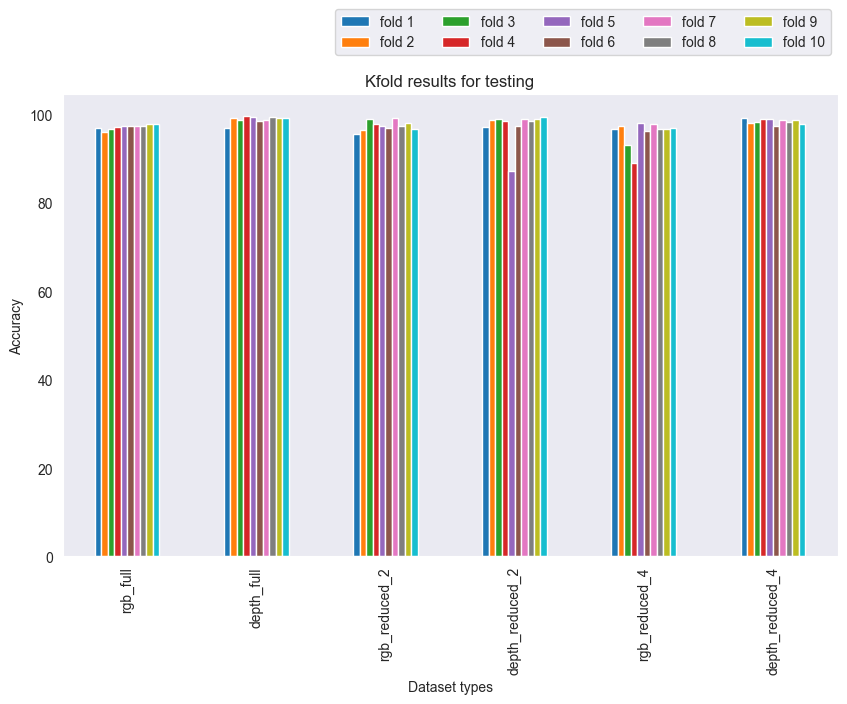
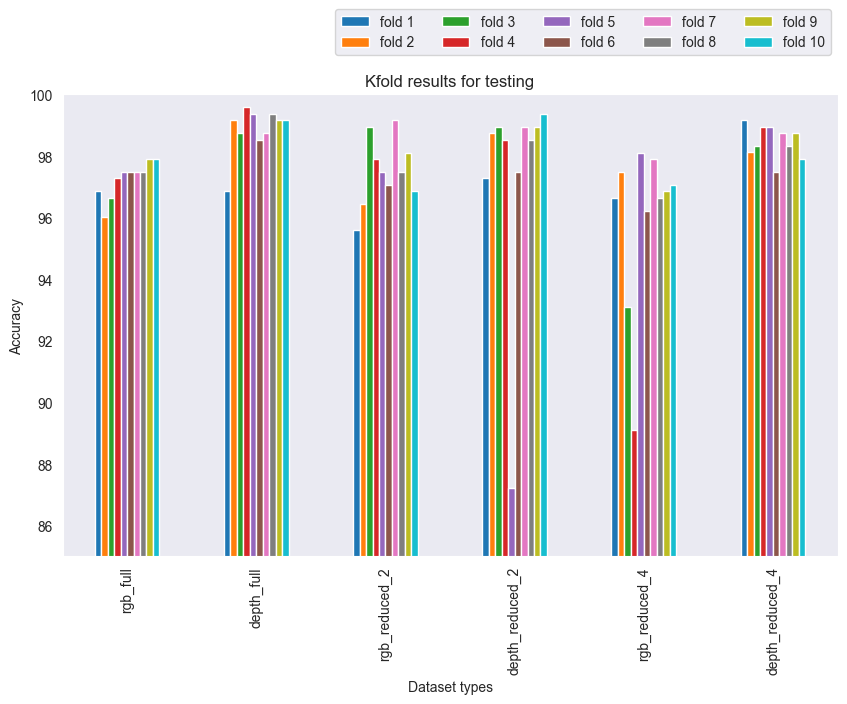
added training results save and acc/loss graphs generation

diff --git a/ML/ml.py b/ML/ml.py
@@ -19,6 +19,7 @@ from sklearn.metrics import classification_report
 import seaborn as sns
 import pandas as pd
 from tensorflow.keras.utils import plot_model
+import pickle
 
 os.environ["TF_CPP_MIN_LOG_LEVEL"] = "2"
 
@@ -621,7 +622,8 @@ def video_ml(root, name, dataset_type=Dataset_type.Normal, input_shape=(0, 0, 0,
             plt.title('Training and Validation Loss')
             plt.savefig(f'output/{name}_loss_results.png')
             plt.clf()
-            np.save(f'output/{name}_training_history.npy', history.history)
+            with open(f'output/{name}_training_history', 'wb') as file_pi:
+                pickle.dump(history.history, file_pi)
             model_vid.save(f'output/{name}_weights.h5')
         else:
             model_vid.load_weights(f'output/{name}_weights.h5')
@@ -798,13 +800,48 @@ def generate_kfold_results_graph():
         sns.set_style("dark")
         plotdata.plot(kind="bar", figsize=(10, 6)).legend(loc='upper right', ncol=5, bbox_to_anchor=(1, 1.2))
         plt.title(f'Kfold results for {name}')
+        plt.ylim([85, 100])
         plt.xlabel("Dataset types")
         plt.ylabel("Accuracy")
         plt.savefig(f'{path}/kfold_{name}_graph.png', bbox_inches='tight')
+
+
+def generateAccuracyLossGraphs():
+    data_rgb = []
+    data_depth = []
+    path = 'ML_video_results/Training'
+    for result_name in ['video_rgb_full_training_history', 'video_rgb_reduced_2_training_history',
+                        'video_rgb_reduced_4_training_history']:
+        result = pickle.load(open(f'{path}/{result_name}', "rb"))
+        data_rgb.append(result)
+    for result_name in ['video_depth_full_training_history', 'video_depth_reduced_2_training_history',
+                        'video_depth_reduced_4_training_history']:
+        result = pickle.load(open(f'{path}/{result_name}', "rb"))
+        data_depth.append(result)
+    for type, val_type, name in [('accuracy', 'val_accuracy', 'Accuracy'), ('loss', 'val_loss', 'Loss')]:
+        for stream_name, data in [('rgb', data_rgb), ('depth', data_depth)]:
+            fontsize = 26
+            plotdata = pd.DataFrame(
+                {f'{name} for proposed model/full': data[0][type],
+                 f'Validation {name} for proposed model/full': data[0][val_type],
+                 f'{name} for proposed model/1 of 2': data[1][type],
+                 f'Validation {name} for proposed model/1 of 2': data[1][val_type],
+                 f'{name} for proposed model/1 of 4': data[2][type],
+                 f'Validation {name} for proposed model/1 of 4': data[2][val_type]})
+            plotdata.plot(kind="line", figsize=(25, 13), lw=3, fontsize=fontsize - 3).legend(loc='upper right', ncol=2,
+                                                                                             bbox_to_anchor=(
+                                                                                                 0.97, 1.26),
+                                                                                             fontsize=fontsize)
+            plt.title(f'{name} and Validation {name} during training for {stream_name}',
+                      fontdict={'fontsize': fontsize})
+            plt.xlabel("Epochs", fontdict={'fontsize': fontsize})
+            plt.ylabel(name, fontdict={'fontsize': fontsize})
+            plt.savefig(f'{path}/training_{type}_{stream_name}_graph.png', bbox_inches='tight')
 
 
 if __name__ == '__main__':
     # policy = mixed_precision.Policy('mixed_float16')
     # mixed_precision.set_global_policy(policy)
     os.makedirs("output", exist_ok=True)
-    generate_kfold_results_graph()
+    model = getModel(Dataset_type.default_full_2_4, (10, 120, 160, 3))
+    model.summary()
